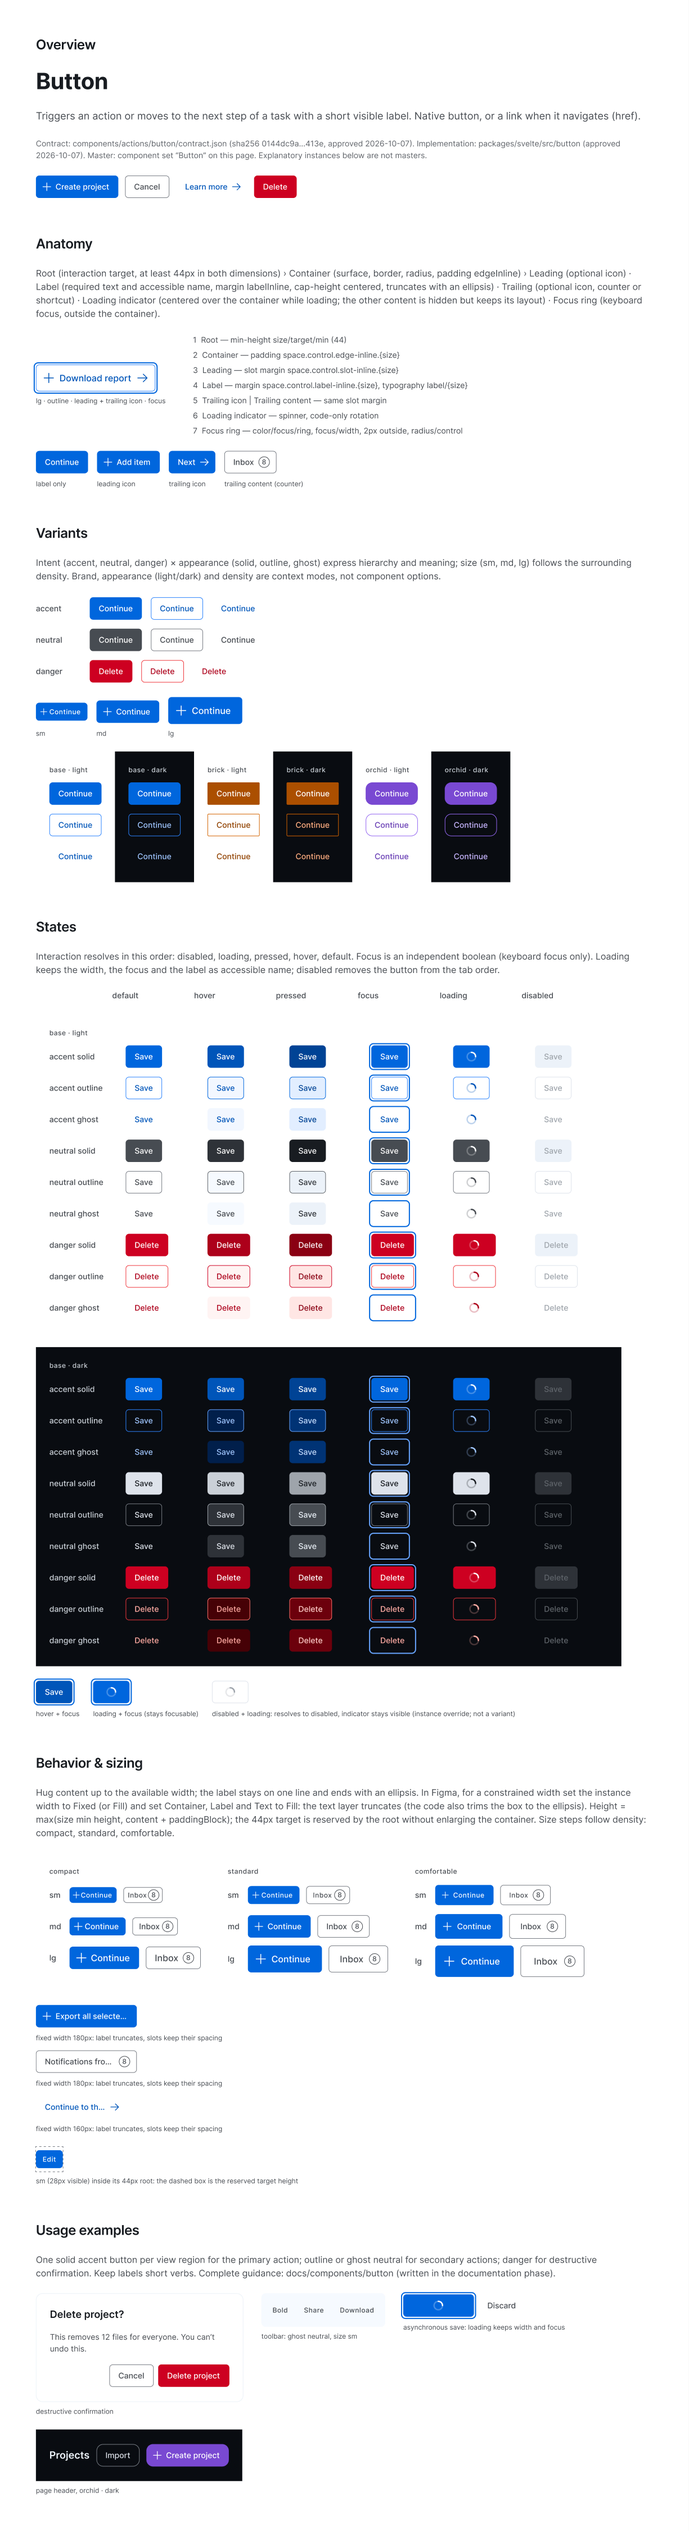
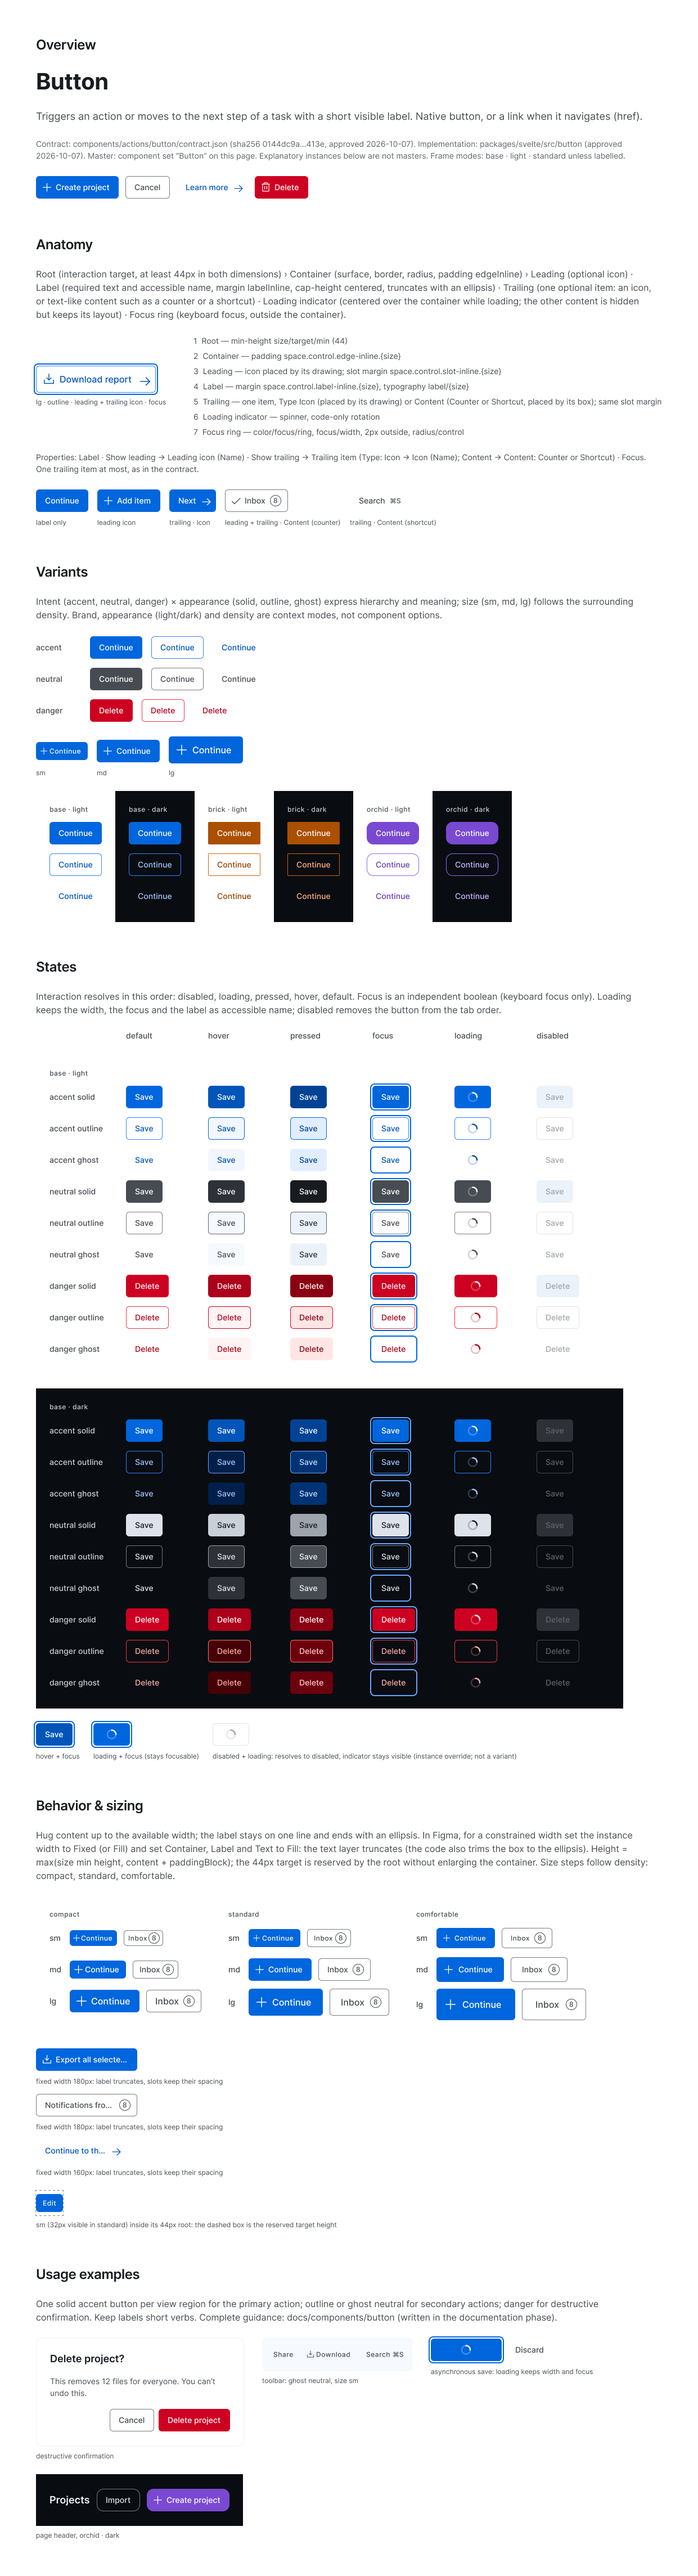
Button Figma: single trailing slot with an internal Trailing part
Show trailing + exposed _Button/Trailing instance (Type Icon or Content)
replaces the separate trailing icon and trailing content slots, so at most
one trailing item exists, as in the contract. Icon fixtures become a Name
variant set; icon sizes follow a size adapter collection. Parity
re-measured: 9324 records, 0 failures.

Claude-Session: https://claude.ai/code/session_01EvHNtXFTTyBz5ZU7cXqvds

Changed region(s): [[0.031, 0.0, 0.9306, 0.9956], [0.7445, 0.3733, 0.8065, 0.4044]]

diff --git a/authoring/adapters/figma/button-parity.plugin.js b/authoring/adapters/figma/button-parity.plugin.js
@@ -95,7 +95,7 @@ for (const ap of APS)
       for (const [k, inst] of made) {
         const c = inst.findOne((n) => n.name === 'Container');
         const lw = inst.findOne((n) => n.name === 'Label');
-        const t = inst.findOne((n) => n.type === 'TEXT' && n.name === 'Text');
+        const t = lw.findOne((n) => n.type === 'TEXT' && n.name === 'Text');
         const ring = inst.findOne((n) => n.name === 'Focus ring');
         const rw = await res(ring, 'strokeTopWeight');
         out[`${ctx}|${k.i}|${k.a}|${k.s}|${k.st}`] = [

diff --git a/components/actions/button/figma-spec.md b/components/actions/button/figma-spec.md
@@ -4,23 +4,23 @@
 
 - File: [GG.Bricks — Design system](https://www.figma.com/design/TDPqojP4KvbWJlKSYc4zKC/GG.Bricks---Design-system), page **Actions** (`8:4`).
 - Master: component set **Button** ([`48:1586`](https://www.figma.com/design/TDPqojP4KvbWJlKSYc4zKC/GG.Bricks---Design-system?node-id=48-1586)), 135 variants.
-- Specification frame: **Button — Specification** ([`66:56`](https://www.figma.com/design/TDPqojP4KvbWJlKSYc4zKC/GG.Bricks---Design-system?node-id=66-56)) with Overview, Anatomy, Variants, States, Behavior & sizing and Usage examples. Its instances are explanatory, never masters.
+- Specification frame: **Button — Specification** ([`78:1449`](https://www.figma.com/design/TDPqojP4KvbWJlKSYc4zKC/GG.Bricks---Design-system?node-id=78-1449)) with Overview, Anatomy, Variants, States, Behavior & sizing and Usage examples. Its instances are explanatory, never masters.
 - Reproduces: contract `components/actions/button/contract.json` (sha256 `0144dc9a…413e`) and the implementation approved on 2026-10-07 (`packages/svelte/src/button`).
 - Node and variable IDs: `reports/components/button/figma/ledger.json`. Parity: `reports/components/button/figma/parity.json` (9324 records, 0 failures). Screenshots: `reports/components/button/figma/master-set.png`, `specification.png`.
 - The library is not published (publication needs explicit authorization).
 
 ## Mapping from the contract
 
-| Contract                             | Figma                                                                                                                                                                                                                |
-| ------------------------------------ | -------------------------------------------------------------------------------------------------------------------------------------------------------------------------------------------------------------------- |
-| `intent`, `appearance`, `size`       | Variant properties Intent, Appearance, Size (default accent · solid · md)                                                                                                                                            |
-| `interaction` state                  | Variant property State: default, hover, pressed, loading, disabled                                                                                                                                                   |
-| `focus` state                        | Boolean **Focus** (independent axis, combines with every state)                                                                                                                                                      |
-| `label`                              | Text property **Label**                                                                                                                                                                                              |
-| `leading` (icon)                     | Boolean **Show leading** + instance swap **Leading icon** (icon fixtures)                                                                                                                                            |
-| `trailing` (icon, counter, shortcut) | Boolean **Show trailing icon** + swap **Trailing icon**; boolean **Show trailing content** + swap **Trailing content** (Counter, Shortcut fixtures). Show only one of the two: the contract allows one trailing item |
-| `href`, `disabled`, `loading`        | Not properties: href has no visual effect; disabled and loading are State values                                                                                                                                     |
-| parts                                | Layers Container, Leading, Label/Text, Trailing icon, Trailing content, Loading indicator, Focus ring                                                                                                                |
+| Contract                             | Figma                                                                                                                                                                                                                                                 |
+| ------------------------------------ | ----------------------------------------------------------------------------------------------------------------------------------------------------------------------------------------------------------------------------------------------------- |
+| `intent`, `appearance`, `size`       | Variant properties Intent, Appearance, Size (default accent · solid · md)                                                                                                                                                                             |
+| `interaction` state                  | Variant property State: default, hover, pressed, loading, disabled                                                                                                                                                                                    |
+| `focus` state                        | Boolean **Focus** (independent axis, combines with every state)                                                                                                                                                                                       |
+| `label`                              | Text property **Label**                                                                                                                                                                                                                               |
+| `leading` (icon)                     | Boolean **Show leading**; exposed instance **Leading icon** (icon set, property Name)                                                                                                                                                                 |
+| `trailing` (icon, counter, shortcut) | Boolean **Show trailing**; exposed instance **Trailing item** (internal `_Button/Trailing`): **Type** Icon (nested exposed **Icon**, property Name) or Content (swap **Content**: Counter or Shortcut). One trailing item at most, as in the contract |
+| `href`, `disabled`, `loading`        | Not properties: href has no visual effect; disabled and loading are State values                                                                                                                                                                      |
+| parts                                | Layers Container, Leading, Label/Text, Trailing, Loading indicator, Focus ring                                                                                                                                                                        |
 
 Every color, dimension, radius, padding, margin, stroke and typography value of the masters is bound to a variable of the Primitives, Brand, Appearance and Density collections; brand, appearance and density are chosen by the consuming frame's variable modes, never by component properties.
 
@@ -28,7 +28,8 @@ Every color, dimension, radius, padding, margin, stroke and typography value of 
 
 - **Root** reserves the 44px interaction height (`size/target/min`) around the container; the container keeps the size height.
 - **Container** padding is `space/control/edge-inline/{size}` and `space/control/padding-block/{size}`; **Label** carries `space/control/label-inline/{size}` on both sides; **Leading** and **Trailing** carry `space/control/slot-inline/{size}`.
-- **Optical icon spacing**: icons sit in a _Drawing box_ sized to the icon's drawing (iconSize × 3/4), so the box overlaps the slot spacing by 1/8 of the icon size on each side, like the CSS negative margin.
+- **Optical icon spacing**: icons sit in a _Drawing box_ sized to the icon's drawing (iconSize × 3/4), so the box overlaps the slot spacing by 1/8 of the icon size on each side, like the CSS negative margin. The compensation belongs to Button (Leading, and Type=Icon of `_Button/Trailing`); the icon component itself stays neutral.
+- **Trailing**: one frame carrying the slot margin, holding an exposed instance of the internal `_Button/Trailing` set (Utilities page). Type=Icon shows the drawing box with the icon; Type=Content shows a Counter or Shortcut placed by its box. Both layers exist in both types (one hidden), so the master's per-state color overrides (icon glyph, content text and counter outline) survive switching Type, Name or Content. The Shortcut fixture carries a zero-width stroke so the counter outline color override never draws a border on it.
 - **Cap-height centering**: the label text uses vertical trim (leading trim to cap height), the Figma equivalent of `text-box: trim-both cap alphabetic`.
 - **Loading**: the Loading indicator is centered over the container (absolute); Leading, Label and Trailing are kept in the layout at opacity 0, so the width does not change.
 - **Outline appearance**: the border is an inside stroke bound to the border role, so it never changes outer dimensions (`strokesIncludedInLayout` off on containers).
@@ -47,11 +48,11 @@ Recorded as such in `parity.json`; none hides a defect of the masters.
 7. **Tight ellipsis.** The code ends the visible box at the ellipsis and keeps the full label as accessible name. Figma truncates the text layer (ellipsis at the end): for a constrained width, set the instance width to Fixed or Fill and set Container, Label and Text to Fill (example in Behavior & sizing).
 8. **Horizontal 44px target.** The code also reserves 44px horizontally for very short labels; the Figma root reserves the height only.
 9. **Spinner rotation, color transitions and reduced motion** are code-only.
-10. **Fixtures.** The Phosphor library is not attached to the file: icons are local fixtures (`_Fixture/Icon/*`, Phosphor 2.1.1 paths) with literal vector sizes, and Counter and Shortcut are local fixtures on the Utilities page, standing in for the future Icon, Counter and Shortcut components.
+10. **Fixtures.** The Phosphor library is not attached to the file: icons are local fixtures (variant set `_Fixture/Icon`, property Name, Phosphor 2.1.1 paths) with literal vector sizes, and Counter and Shortcut are local fixtures on the Utilities page, standing in for the future Icon, Counter and Shortcut components.
 
 ## Adapter mechanics
 
-- Collection `_ggbrick adapter` (one mode) holds `button/icon-drawing/{sm,md,lg}` = 12, 15, 18: the optical drawing box (3/4 of `size/icon/{size}`), because Figma cannot compute a fraction of a variable. It is not a source token, contract field or code requirement.
+- Collection `_ggbrick button size` (modes sm, md, lg; each Button variant sets the mode of its Size) holds `button/icon-drawing` = 12, 15, 18, the optical drawing box (3/4 of `size/icon/{size}`, because Figma cannot compute a fraction of a variable), and `button/icon-size`, an alias of `size/icon/{size}`. The modes let the shared `_Button/Trailing` part follow the button size without a Size property. These are not source tokens, contract fields or code requirements.
 - `figma.skipInvisibleInstanceChildren = false` is required when scripts read hidden slot layers of instances.
 
 ## Parity method
